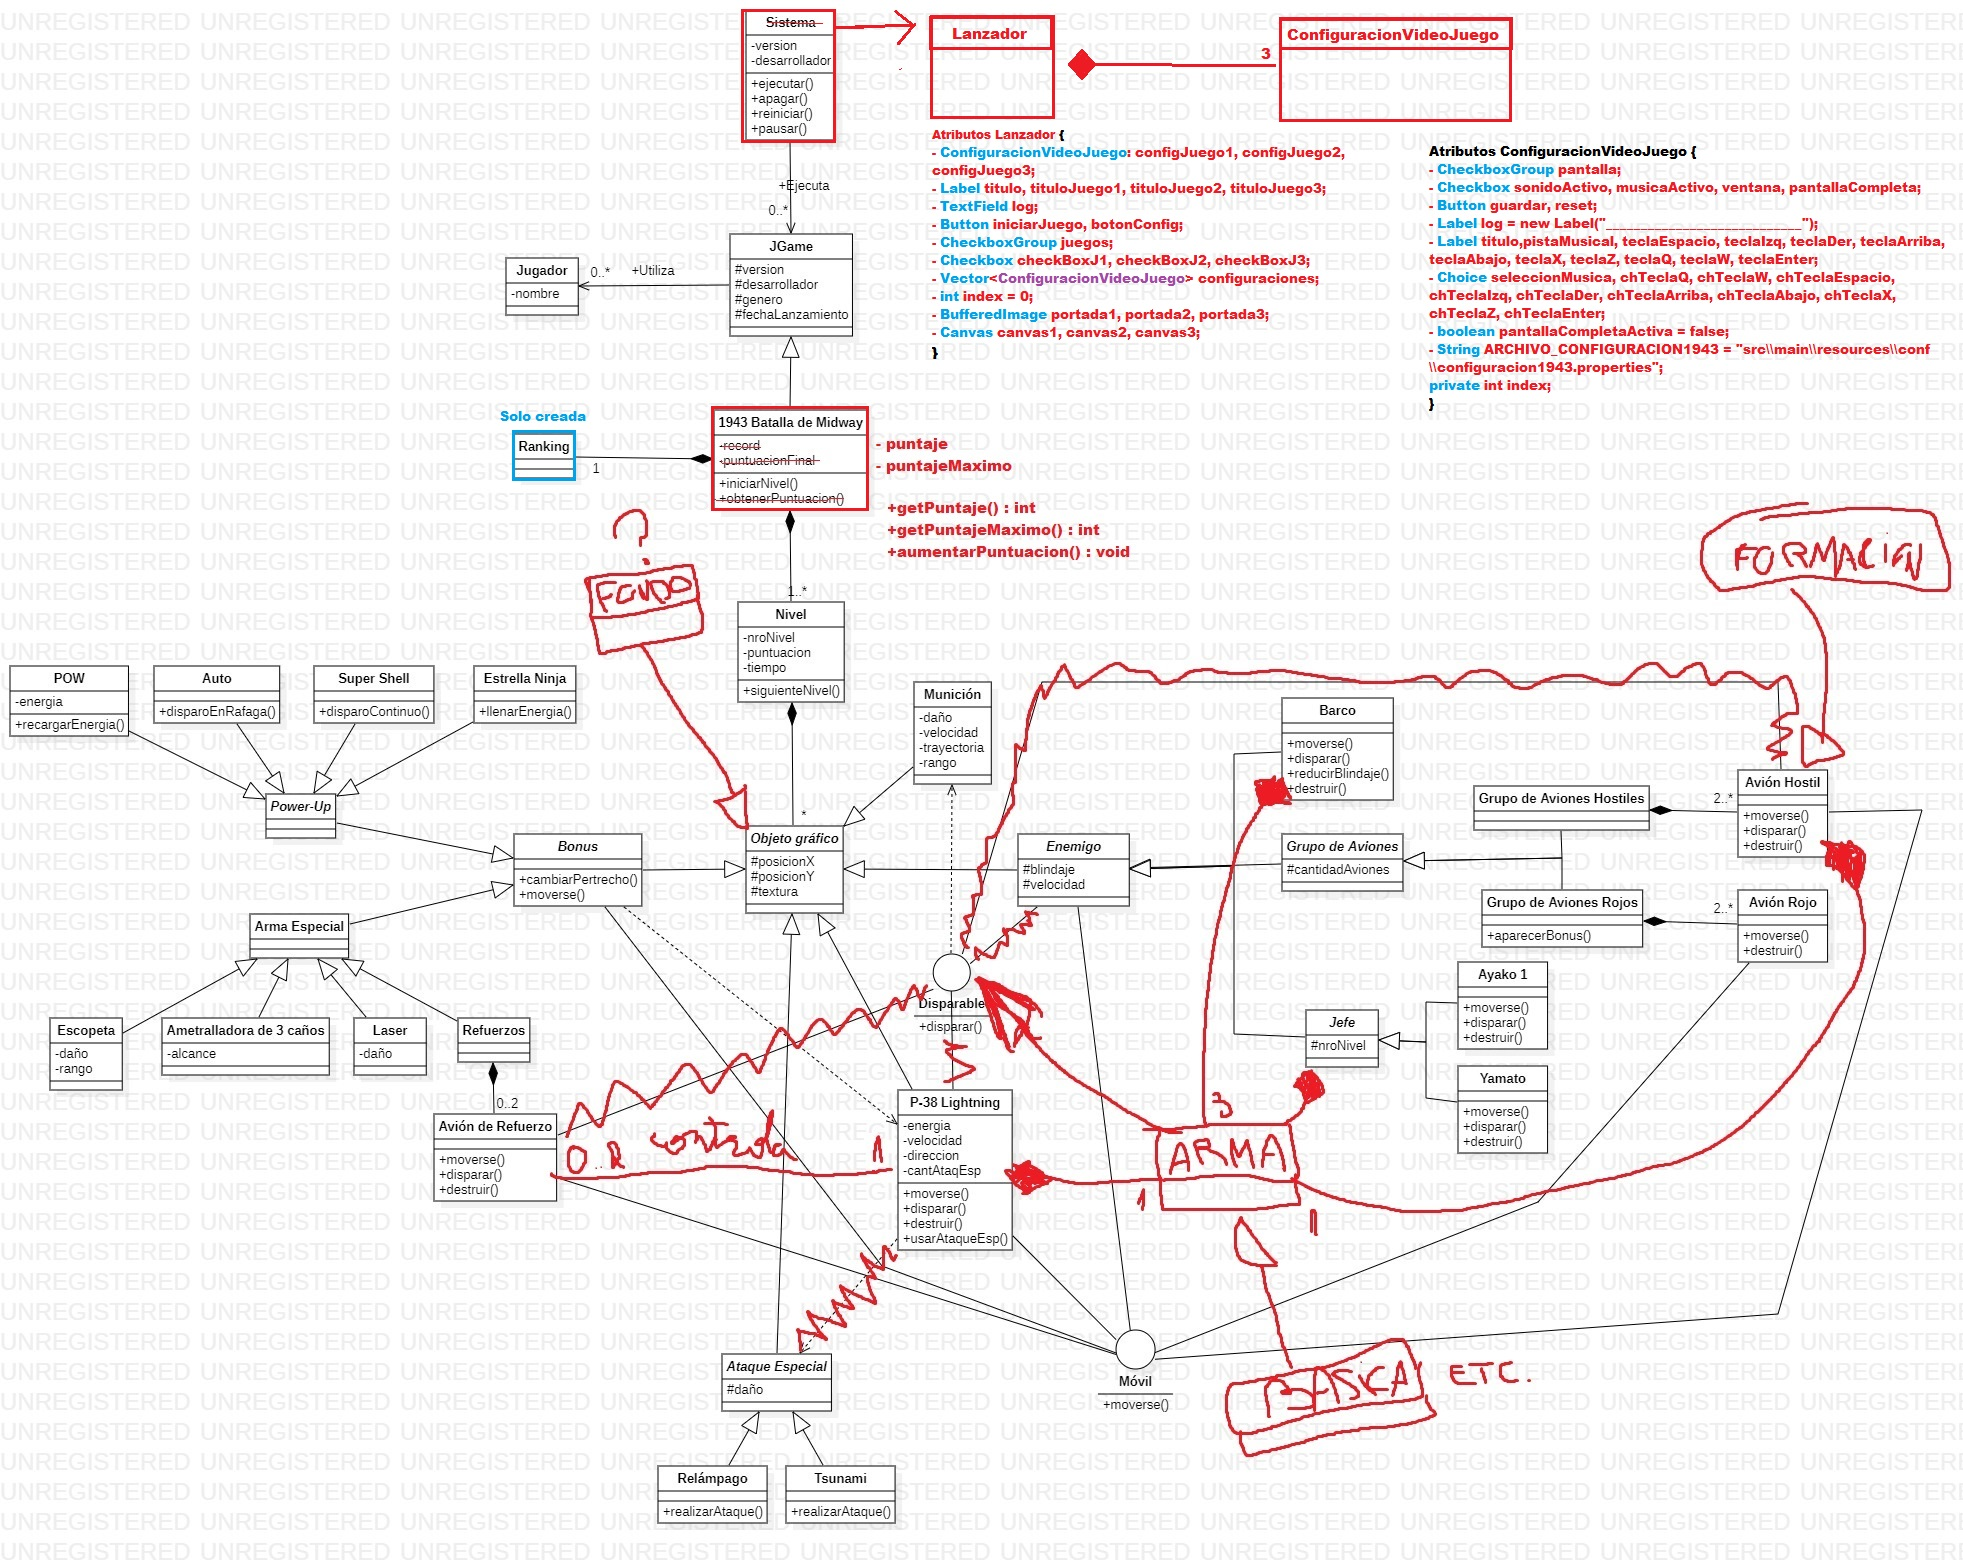
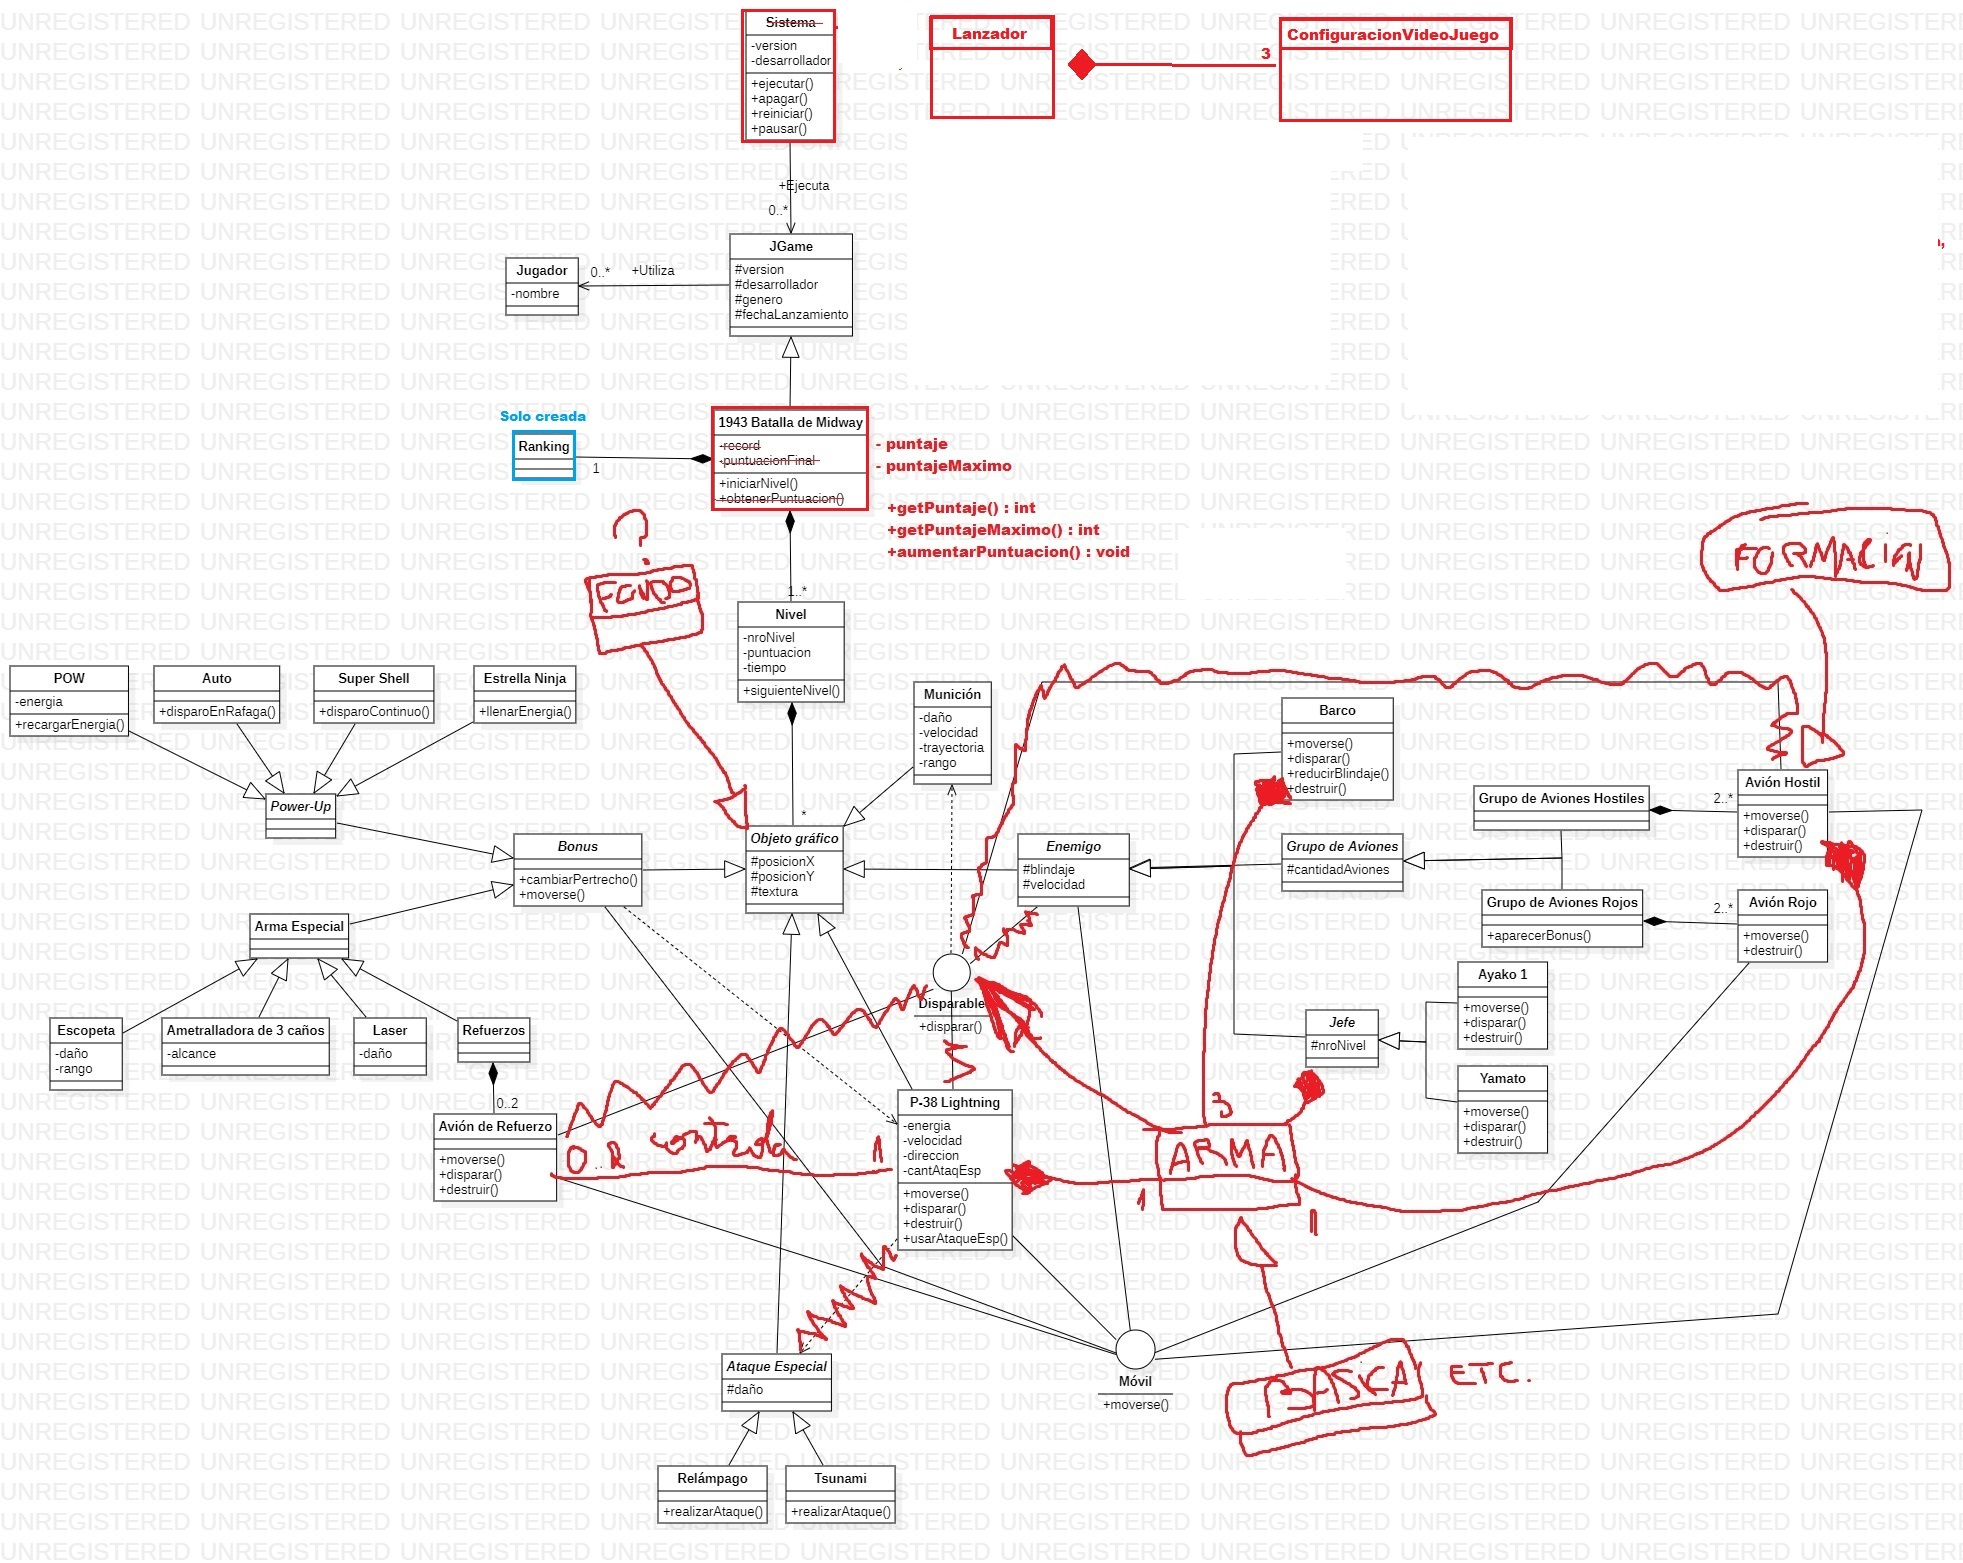
Se borraron las clases: -Jugador -Jugador1943 -Ranking -RankingJuego -Sistema
Se renombró la clase Lanzador por Sistema

Y finalmente se ordenaron las clases en la carpeta.

Changed region(s): [[0.7147, 0.0921, 0.9944, 0.2764], [0.4661, 0.0614, 0.6836, 0.215], [0.435, 0.0, 0.4661, 0.0307]]

diff --git a/src/main/java/poo/Sistema.java b/src/main/java/poo/Sistema.java
@@ -1,13 +1,13 @@
-package poo.Sistema;
+package poo;
 
-import poo.Juego1943;
+import poo.Otros.ConfiguracionVideoJuego;
 
 import java.awt.*;
 import java.awt.event.*;
 import java.util.Vector;
 import java.awt.image.*;
 
-public class Lanzador extends Frame implements ActionListener, ItemListener {
+public class Sistema extends Frame implements ActionListener, ItemListener {
 
 	private ConfiguracionVideoJuego configJuego1, configJuego2, configJuego3;
 	private Label titulo, tituloJuego1, tituloJuego2, tituloJuego3;
@@ -20,7 +20,7 @@ public class Lanzador extends Frame implements ActionListener, ItemListener {
 	private BufferedImage portada1, portada2, portada3;
 	private Canvas canvas1, canvas2, canvas3;
 
-	public Lanzador() {
+	public Sistema() {
 
 		configuraciones = new Vector<ConfiguracionVideoJuego>();
 		configJuego1 = new ConfiguracionVideoJuego(this, "1943: Battle of Midway", 0);
@@ -217,7 +217,7 @@ public class Lanzador extends Frame implements ActionListener, ItemListener {
 	}
 
 	public static void main(String[] args) {
-		Lanzador sys = new Lanzador();
+		Sistema sys = new Sistema();
 	}
 }
 

diff --git a/src/main/java/poo/Otros/P38.java b/src/main/java/poo/Otros/P38.java
@@ -1,16 +1,11 @@
-package poo;
+package poo.Otros;
 
-import com.entropyinteractive.Keyboard;
 import poo.Armas.Arma;
 import poo.Armas.ArmaBasica;
-import poo.Armas.Escopeta;
 import poo.Bonus.AvionRefuerzo;
-import poo.Interfaces.Disparable;
 import poo.Interfaces.Movil;
-import poo.Sistema.Cronometro;
 
 import java.awt.*;
-import java.awt.image.BufferedImage;
 
 public class P38 extends ObjetoGrafico implements Movil {
     private int energia, cantAtaqEsp;

diff --git a/src/main/java/poo/Bonus/AvionRefuerzo.java b/src/main/java/poo/Bonus/AvionRefuerzo.java
@@ -2,14 +2,9 @@ package poo.Bonus;
 
 import poo.Armas.Arma;
 import poo.Armas.ArmaBasica;
-import poo.Interfaces.Disparable;
 import poo.Interfaces.Movil;
-import poo.Municion;
-import poo.ObjetoGrafico;
-import poo.Sistema.Cronometro;
-import poo.Utilidades;
-
-import java.awt.image.BufferedImage;
+import poo.Otros.ObjetoGrafico;
+import poo.Otros.Utilidades;
 
 public class AvionRefuerzo extends ObjetoGrafico implements Movil {
     private int vida;

diff --git a/src/main/java/poo/Enemigos/AvionHostil.java b/src/main/java/poo/Enemigos/AvionHostil.java
@@ -2,14 +2,8 @@ package poo.Enemigos;
 
 import poo.Armas.Arma;
 import poo.Armas.ArmaAvionHostil;
-import poo.Interfaces.Disparable;
 import poo.Interfaces.Movil;
-import poo.Municion;
-import poo.Sistema.Cronometro;
-import poo.Utilidades;
-
-import javax.imageio.ImageIO;
-import java.io.IOException;
+import poo.Otros.Utilidades;
 
 public class AvionHostil extends Enemigo implements Movil{
     private final Arma arma;

diff --git a/src/main/java/poo/Armas/ArmaBarco.java b/src/main/java/poo/Armas/ArmaBarco.java
@@ -1,12 +1,11 @@
 package poo.Armas;
 
-import poo.Municion;
-import poo.P38;
-import poo.Sistema.Cronometro;
-import poo.Utilidades;
+import poo.Otros.Municion;
+import poo.Otros.P38;
+import poo.Otros.Cronometro;
+import poo.Otros.Utilidades;
 
 import java.util.ArrayList;
-import java.util.Vector;
 
 import static java.lang.Math.pow;
 import static java.lang.Math.sqrt;

diff --git a/src/main/java/poo/Enemigos/Ayako1.java b/src/main/java/poo/Enemigos/Ayako1.java
@@ -1,12 +1,10 @@
 package poo.Enemigos;
 
 import poo.Armas.ArmaAvionHostil;
-import poo.Armas.ArmaBarco;
-import poo.Municion;
-import poo.P38;
-import poo.Utilidades;
+import poo.Otros.Municion;
+import poo.Otros.P38;
+import poo.Otros.Utilidades;
 
-import java.awt.image.BufferedImage;
 import java.util.Vector;
 
 public class Ayako1 extends Jefe{

diff --git a/src/main/java/poo/Armas/Arma.java b/src/main/java/poo/Armas/Arma.java
@@ -1,11 +1,8 @@
 package poo.Armas;
 
 import poo.Interfaces.Disparable;
-import poo.Municion;
-import poo.ObjetoGrafico;
-import poo.Sistema.Cronometro;
-
-import java.util.Vector;
+import poo.Otros.ObjetoGrafico;
+import poo.Otros.Cronometro;
 
 public abstract class Arma extends ObjetoGrafico implements Disparable {
     protected int poder;

diff --git a/src/main/java/poo/Armas/Ametralladora.java b/src/main/java/poo/Armas/Ametralladora.java
@@ -1,11 +1,10 @@
 package poo.Armas;
 
-import poo.Municion;
-import poo.Sistema.Cronometro;
-import poo.Utilidades;
+import poo.Otros.Municion;
+import poo.Otros.Cronometro;
+import poo.Otros.Utilidades;
 
 import java.util.ArrayList;
-import java.util.Vector;
 
 public class Ametralladora extends Arma{
     public Ametralladora(){

diff --git a/src/main/java/poo/Armas/ArmaBasica.java b/src/main/java/poo/Armas/ArmaBasica.java
@@ -1,11 +1,10 @@
 package poo.Armas;
 
-import poo.Municion;
-import poo.Sistema.Cronometro;
-import poo.Utilidades;
+import poo.Otros.Municion;
+import poo.Otros.Cronometro;
+import poo.Otros.Utilidades;
 
 import java.util.ArrayList;
-import java.util.Vector;
 
 public class ArmaBasica extends Arma{
     public ArmaBasica(){

diff --git a/src/main/java/poo/Armas/Escopeta.java b/src/main/java/poo/Armas/Escopeta.java
@@ -1,11 +1,10 @@
 package poo.Armas;
 
-import poo.Municion;
-import poo.Sistema.Cronometro;
-import poo.Utilidades;
+import poo.Otros.Municion;
+import poo.Otros.Cronometro;
+import poo.Otros.Utilidades;
 
 import java.util.ArrayList;
-import java.util.Vector;
 
 public class Escopeta extends Arma{
     public Escopeta(){

diff --git a/src/main/java/poo/Armas/Laser.java b/src/main/java/poo/Armas/Laser.java
@@ -1,11 +1,10 @@
 package poo.Armas;
 
-import poo.Municion;
-import poo.Sistema.Cronometro;
-import poo.Utilidades;
+import poo.Otros.Municion;
+import poo.Otros.Cronometro;
+import poo.Otros.Utilidades;
 
 import java.util.ArrayList;
-import java.util.Vector;
 
 public class Laser extends Arma{
     public Laser(){

diff --git a/src/main/java/poo/Armas/ArmaAvionHostil.java b/src/main/java/poo/Armas/ArmaAvionHostil.java
@@ -1,11 +1,10 @@
 package poo.Armas;
 
-import poo.Municion;
-import poo.Sistema.Cronometro;
-import poo.Utilidades;
+import poo.Otros.Municion;
+import poo.Otros.Cronometro;
+import poo.Otros.Utilidades;
 
 import java.util.ArrayList;
-import java.util.Vector;
 
 public class ArmaAvionHostil extends Arma{
 
